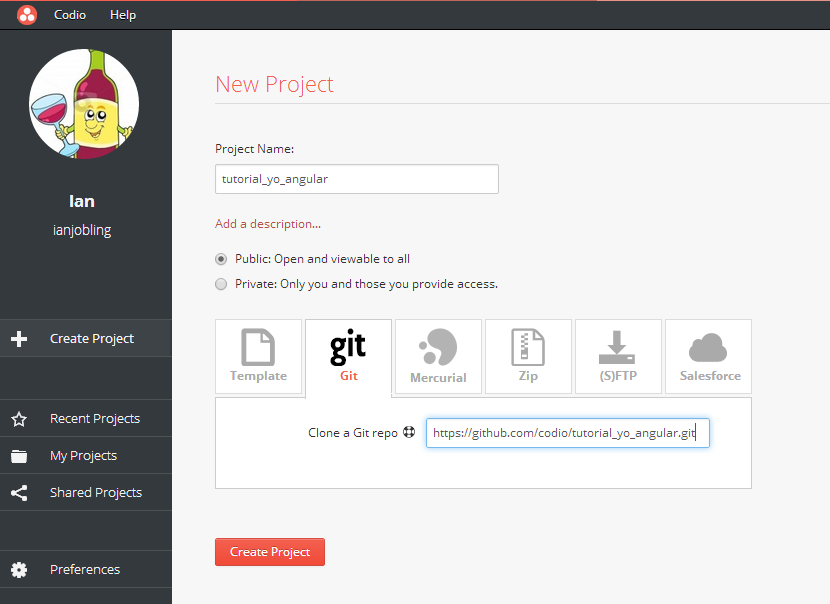
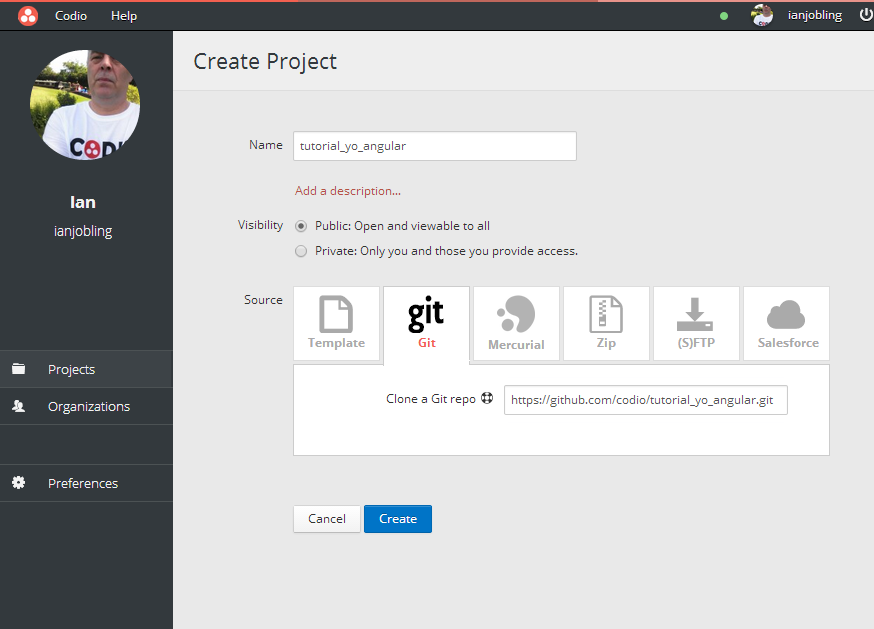
update screenshots

diff --git a/README.md b/README.md
@@ -19,10 +19,10 @@ Getting going is trivial ...
 ![create codio project](img/create-project.png)
 
 1. [Create an account on Codio](https://codio.com/p/signup) (you can sign up with GitHub) and sign in. 
-1. Create a new project as shown above by selecting the Git tab
-1. Paste into the 'Clone a Git repo' field `https://github.com/codio/tutorial_yo_angular.git`
-1. When you press 'Create Project' you will be taken straight into the IDE
-1. Go to the Tools->Tutorial menu option and simply follow the instructions
+1. Create a new project clicking the Create Project button and then, as shown above, select the Git tab.
+1. Paste into the 'Clone a Git repo' field `https://github.com/codio/tutorial_yo_angular.git`.
+1. When you press 'Create' you will be taken straight into the IDE.
+1. Go to the Tools->Tutorial menu option and simply follow the instructions.
 
 
 ###Video
